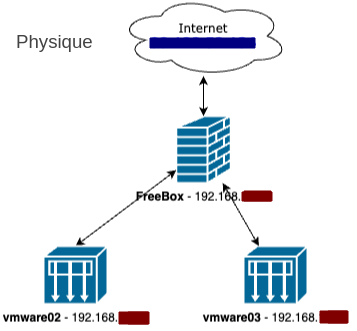
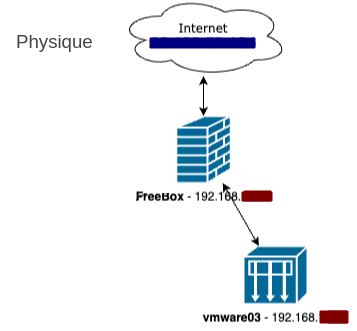
Ajout du fichier .gitignore, modification image

diff --git a/README.md b/README.md
@@ -17,24 +17,21 @@ L'architecture utilisée est minimaliste car il s'agit d'un laboratoire de test.
 
 ![Architecture physique](images/architecture/architecture-physique.png)
 
-Les 2 serveurs vmwares sont sous ESXi 6.5 car la configuration physique des serveurs ne permet pas d'installer une version supérieure.
+Le serveur vmware est sous ESXi 6.5 car la configuration physique des serveurs ne permet pas d'installer une version supérieure.
 
 ### Logique
 
 ![Architecture logique](images/architecture/architecture-logique.png)
 
 #### Les serveurs docker*xxx*
-dockermain héberge les containers de l'architecture : DNS, Bases de données, outil Ansible
+dockermain héberge les containers de l'architecture : DNS, Bases de données, ...) ainsi que les outils Ansible, Terraform.
 
-dockertest*x* héberge les runners pour Gitlab : Gradle, Flutter, Dotnet et Kubernetes
+dockertest*x* héberge les runners pour Gitlab : Gradle, Dotnet, Flutter et Kubernetes
 
 #### Les servers k8s
 Ils hébergent un environement Kubernetes baremetal :
 - 3 serveurs maîtres
 - 3 serveurs noeuds
-
-#### Le serveur vCenter
-Il permet de gérer les images vmware des 2 serveurs. Ce serveur va être désactivé (mi-septembre 2023) car je n'ai plus de licence (version 6.5)
 
 #### Le serveur redirection
 Ce serveur héberge le service nginx proxy pour les accès aux API.
